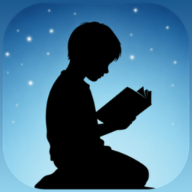
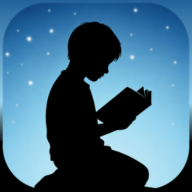
Icône : la colline remplit tout le bas (comme l'écran de chargement)
L'icône du téléphone (icon-512/192, apple-touch-icon) montrait le personnage à
genoux mais SANS colline en bas (fond bleu jusqu'en bas -> il semblait flotter),
alors que l'icône in-app / de chargement (DOVE_ICON), elle, a bien la colline
sombre qui remplit le bas. On régénère donc les icônes du téléphone à partir de
cette même image : le ciel prolonge les coins du HAUT, la colline sombre prolonge
tout le BAS (coins compris) -> le personnage est bien posé sur la colline, plein
cadre, identique au chargement. La figure du personnage est INCHANGÉE (on n'ajoute
que la colline/le ciel dans les zones qui manquaient).

Format plein cadre (opaque, coins remplis) -> masque iOS/Android propre, et
meilleur pour les icônes « maskable » du manifeste (le rognage tombe sur le
ciel/la colline, plus sur du transparent).

Vérifié : bas 100% sombre (colline jusqu'aux coins), haut = ciel, figure intacte.
Cache service worker v12 -> v13.

Claude-Session: https://claude.ai/code/session_01DTTRuVuFxpTX2BjHygbz38

Changed region(s): [[0.0, 0.1562, 1.0, 1.0]]

diff --git a/sw.js b/sw.js
@@ -1,6 +1,6 @@
 /* BibleTrivia — service worker : rend l'app jouable hors connexion.
    À déposer à côté de index.html (même dossier, nom exact "sw.js"). */
-const CACHE = "bibletrivia-v12";
+const CACHE = "bibletrivia-v13";
 const CORE = ["./", "./index.html", "./manifest.json", "./apple-touch-icon.png", "./icon-192.png", "./icon-512.png"];
 self.addEventListener("install", (e) => {
   e.waitUntil(caches.open(CACHE).then((c) => c.addAll(CORE)).catch(() => {}));
